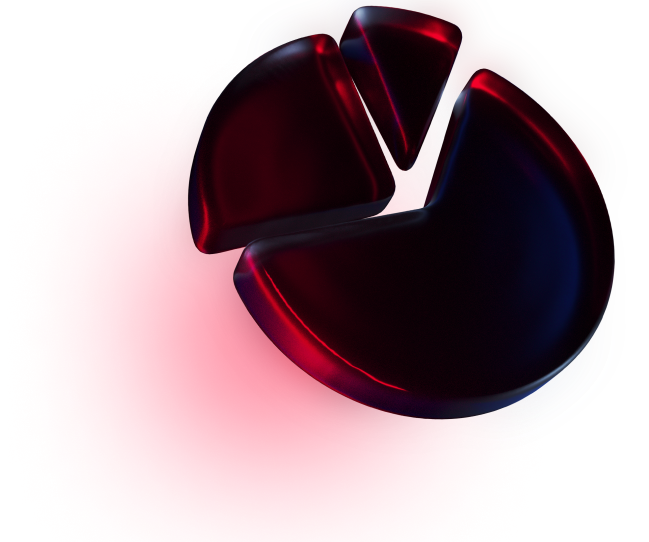
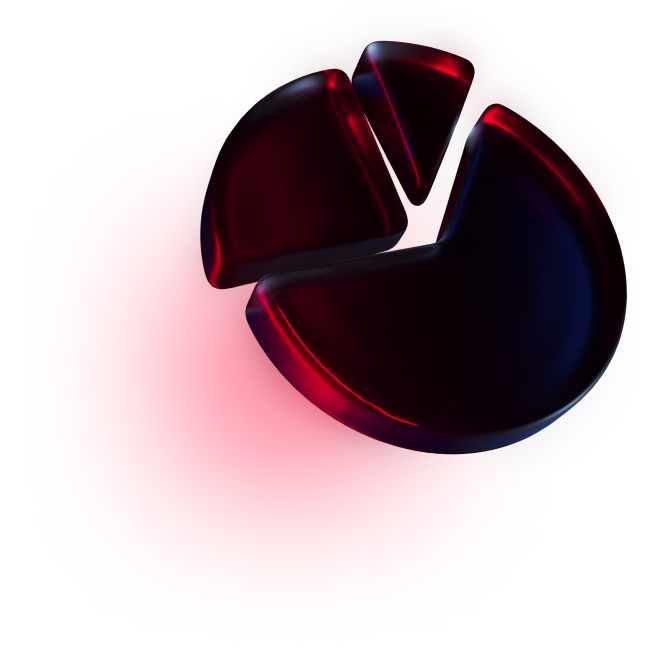
Update dashboard illust

diff --git a/packages/bento-landing/src/landing/sections/DashboardSection.tsx b/packages/bento-landing/src/landing/sections/DashboardSection.tsx
@@ -20,13 +20,6 @@ export const DashboardSection = () => {
             /assets/illusts/dashboard@2x.png 2x,
           `}
         />
-        <MockupIllust
-          src="/assets/illusts/dashboard-mockup.png"
-          srcSet={dedent`
-            /assets/illusts/dashboard-mockup.png,
-            /assets/illusts/dashboard-mockup@2x.png 2x,
-          `}
-        />
       </IllustContainer>
     </Container>
   );
@@ -69,21 +62,16 @@ const Title = styled.h2`
 `;
 
 const IllustContainer = styled.div`
-  margin-top: ${64 + 35}px;
-  width: 854px;
-  height: 756px;
+  margin-top: 39px;
+  width: 495.31px;
+  height: 495.31px;
   position: relative;
 `;
 
+const BLUR_SIZE = 200 - 34;
 const DashboardIllust = styled.img`
-  width: 649px;
-  height: 577px;
-
-  position: absolute;
-  top: -35px;
-  right: 0px;
-`;
-const MockupIllust = styled.img`
-  width: 100%;
-  height: 100%;
+  margin-left: ${-BLUR_SIZE}px;
+  margin-bottom: ${-BLUR_SIZE}px;
+  width: ${495.31 + BLUR_SIZE}px;
+  height: ${495.31 + BLUR_SIZE}px;
 `;
